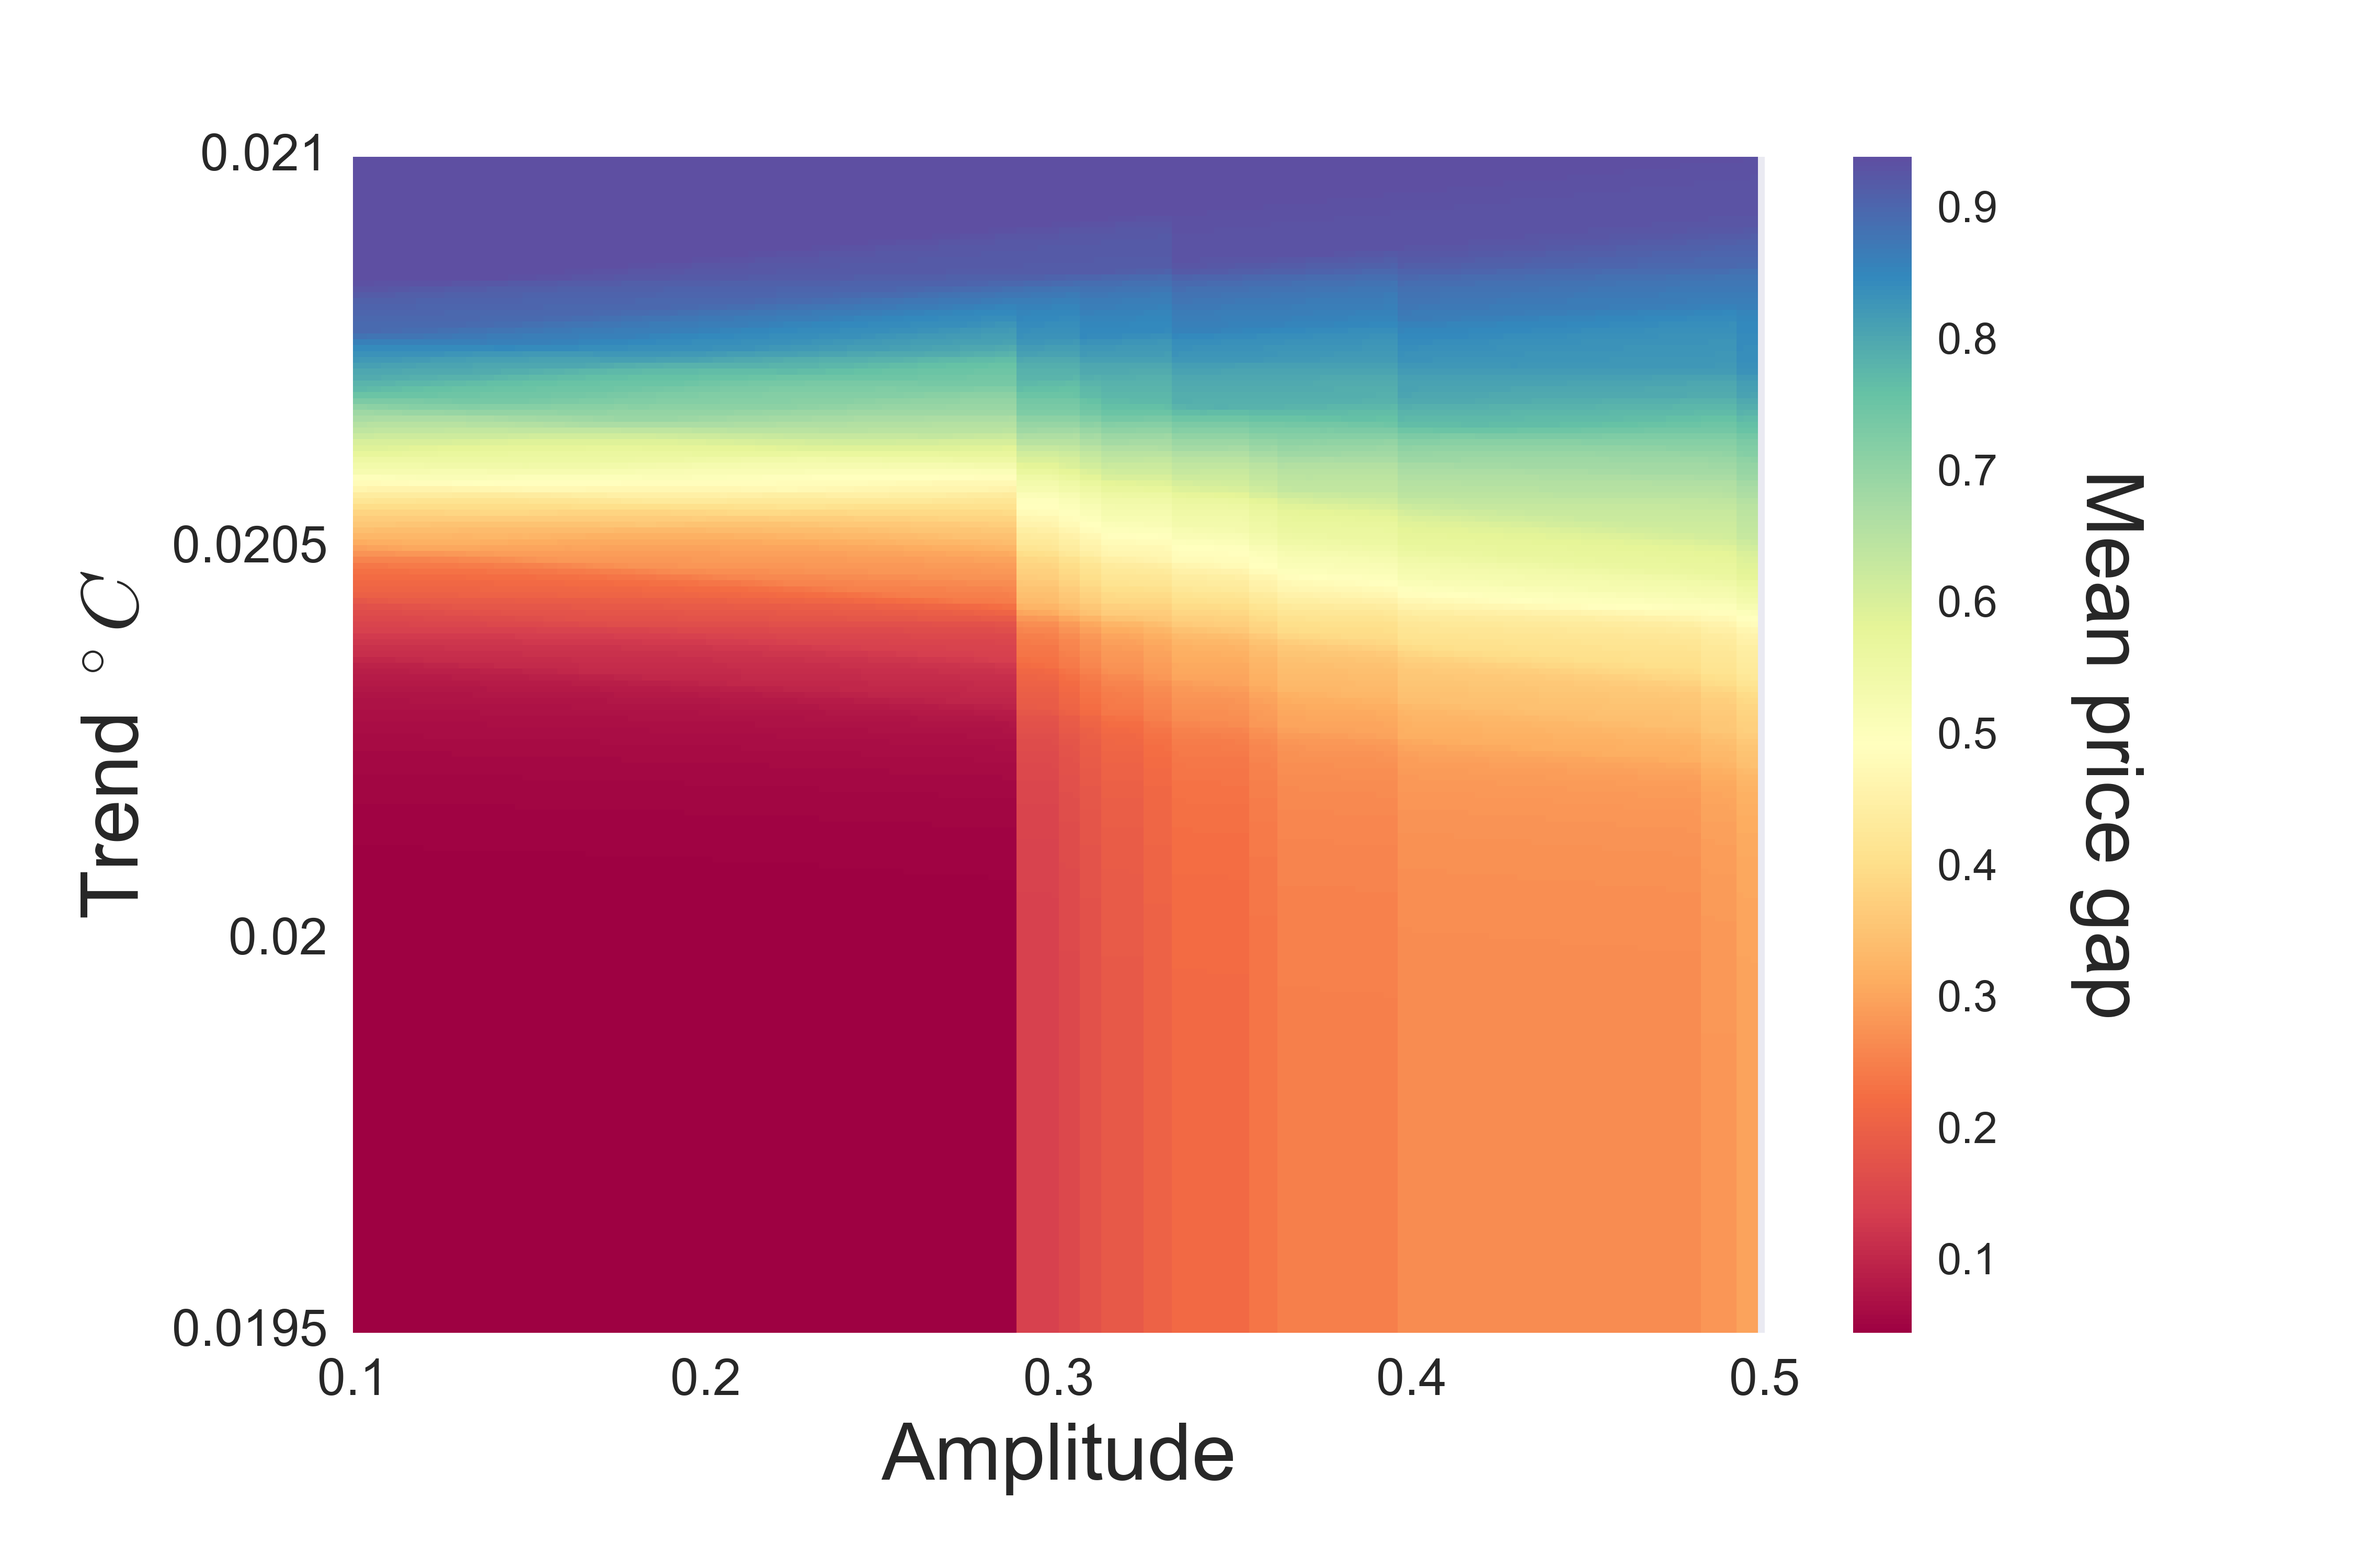
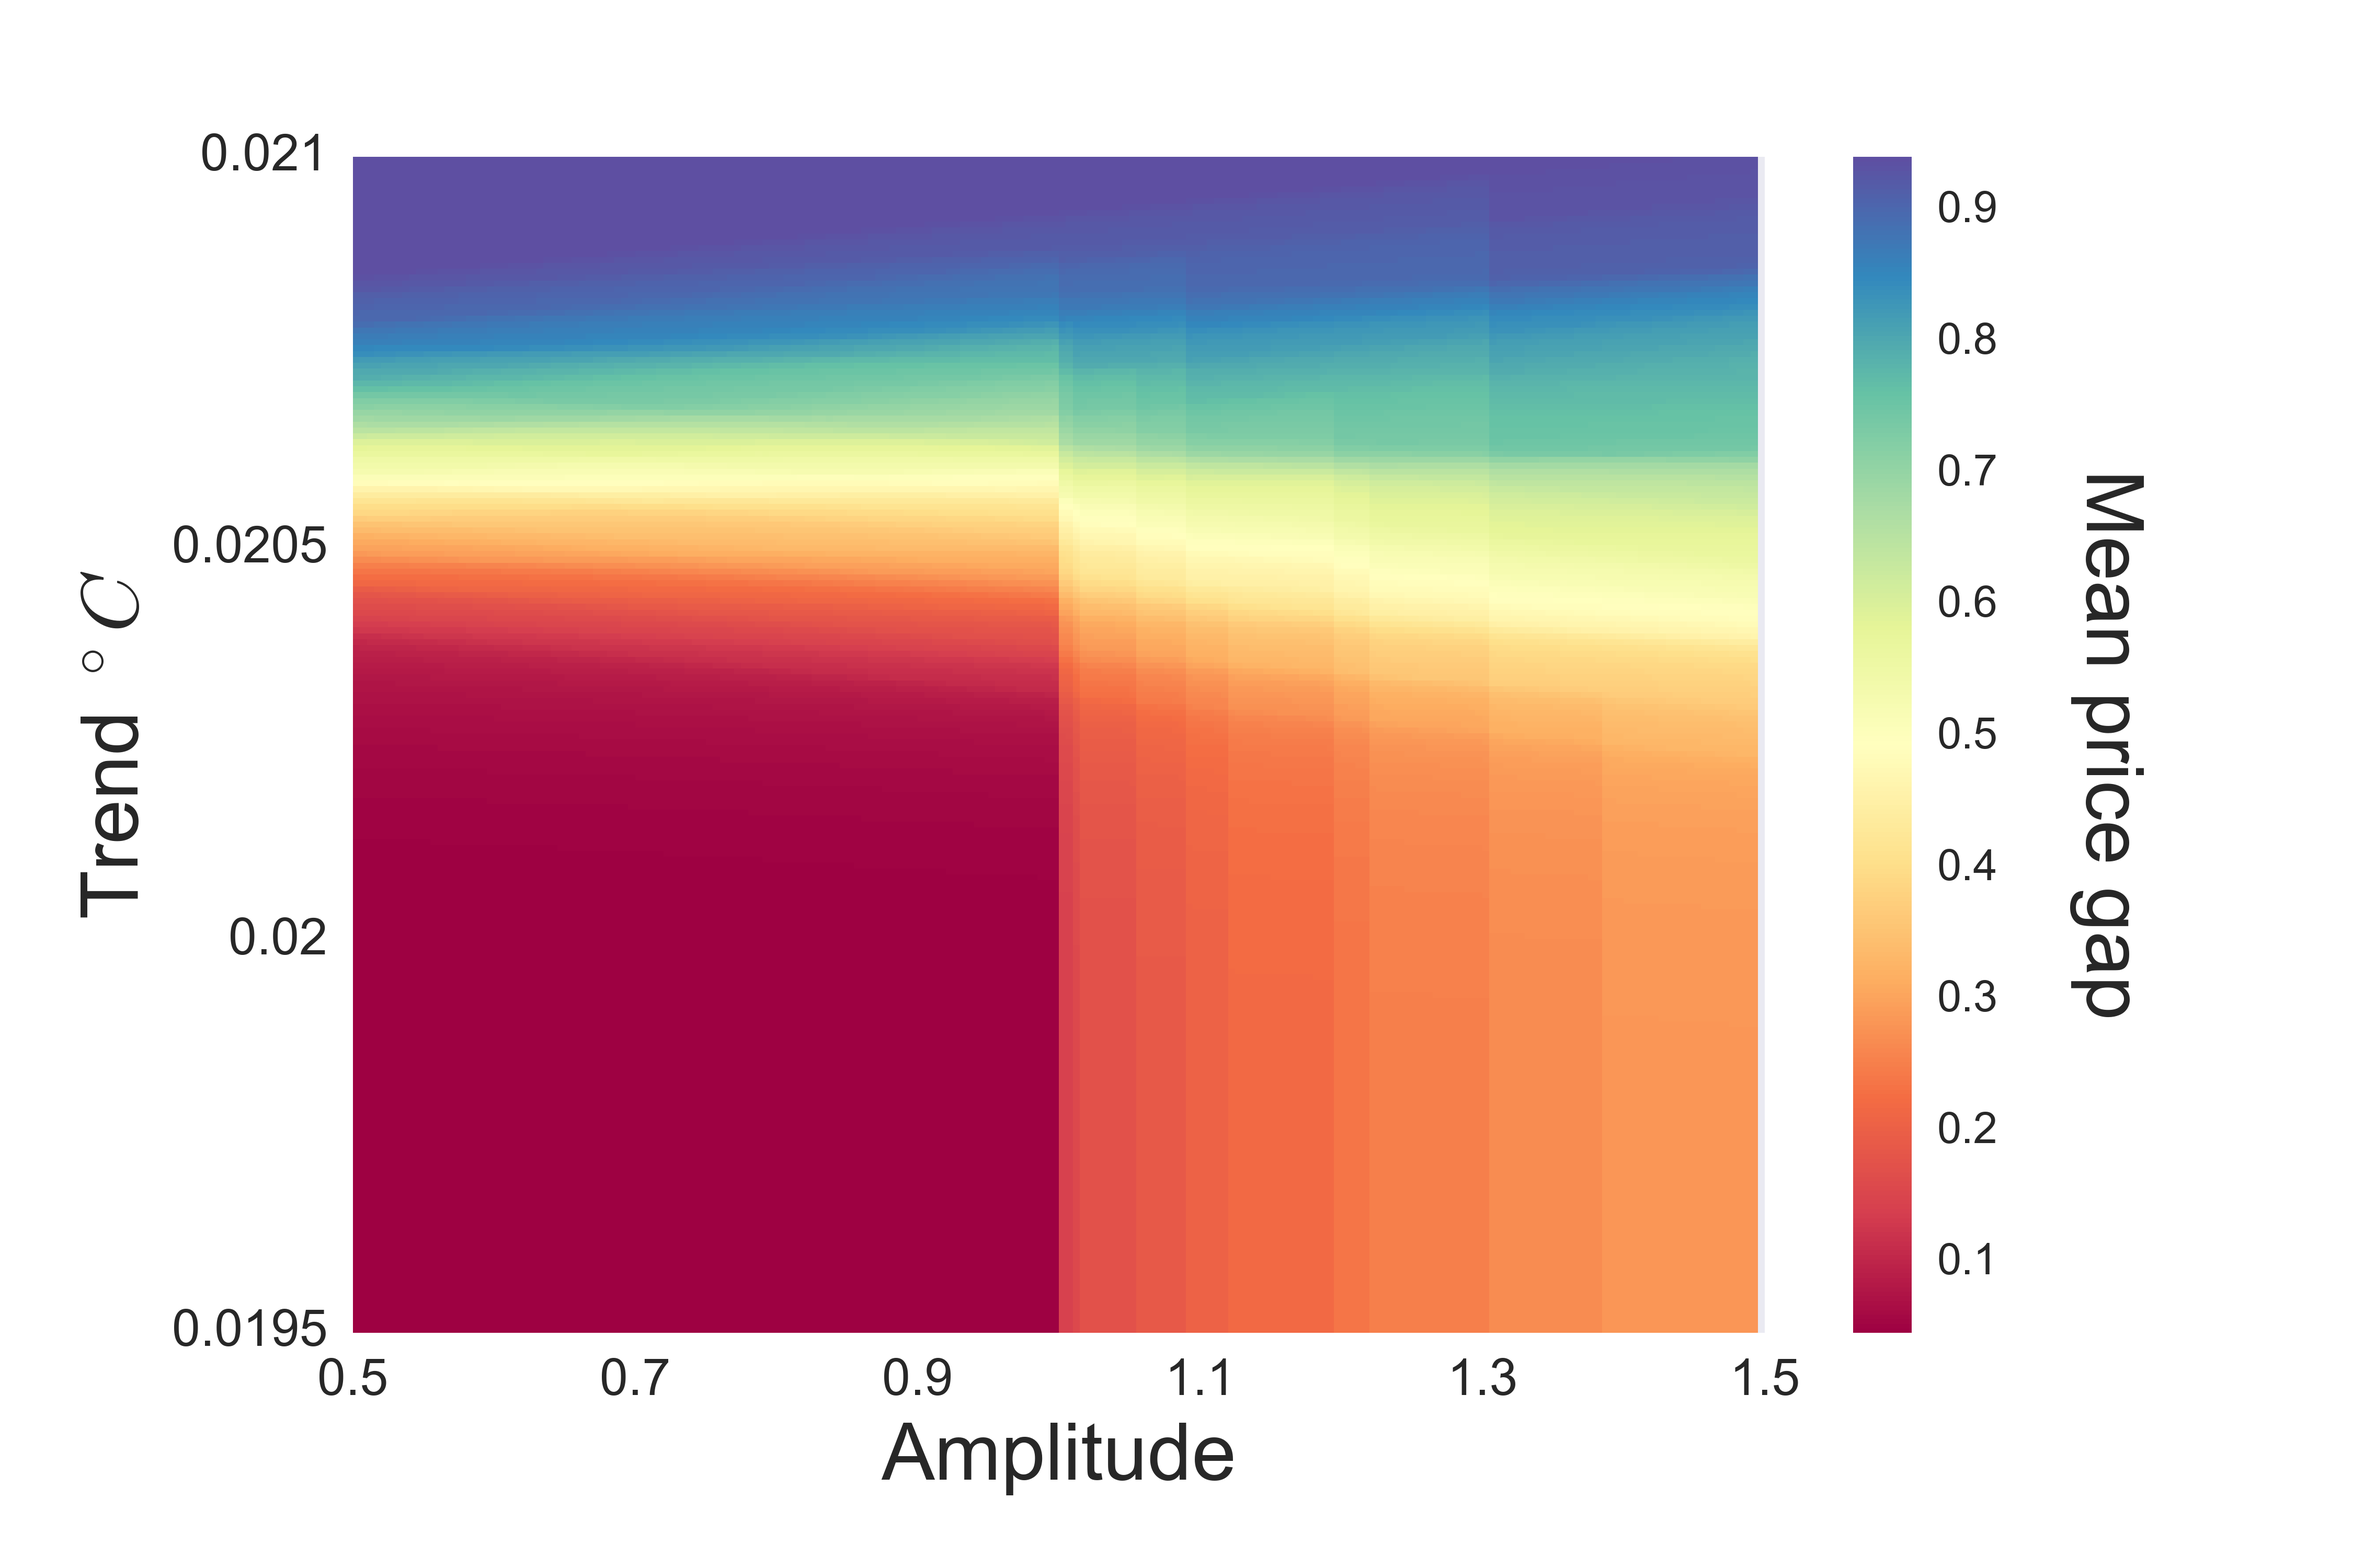
corrected amplitude simulations in T & M

diff --git a/CODE/SI.py b/CODE/SI.py
@@ -105,6 +105,7 @@ line1, = ax1.plot(bemp, label = "BEM", color="steelblue", linewidth=2)
 line2, = ax1.plot(edmp, label = "EDM", color="sage", linewidth=2)
 line3, = ax1.plot(mlmp, label = "MLM", color="orange", linewidth=2)
 line4, = ax1.plot(datp, label = "Data", color="indianred", linewidth=2)
+line5, = ax1.plot(datc+5E5, label = "Data", color="indianred", linewidth=2)
 # x-axis
 ax1.set_xticklabels(np.arange(1996,2017,5), rotation=45, fontsize= 12)# ax1.set_xlim(0,)
 # plt.xlabel("Year",fontsize=20, **hfont)

diff --git a/CODE/parameter_sweep.py b/CODE/parameter_sweep.py
@@ -29,6 +29,7 @@ a0 = -40.9079 # intersection y
 a1 = 0.020464 # trend
 a2 = 0.165387 # periodicity
 a3 = -0.287384 # periodicity
+a4 = 1 # amplitude control
 # catchability
 k = -0.0318 # catchability slope
 l = 0.0018 # catchability intersect
